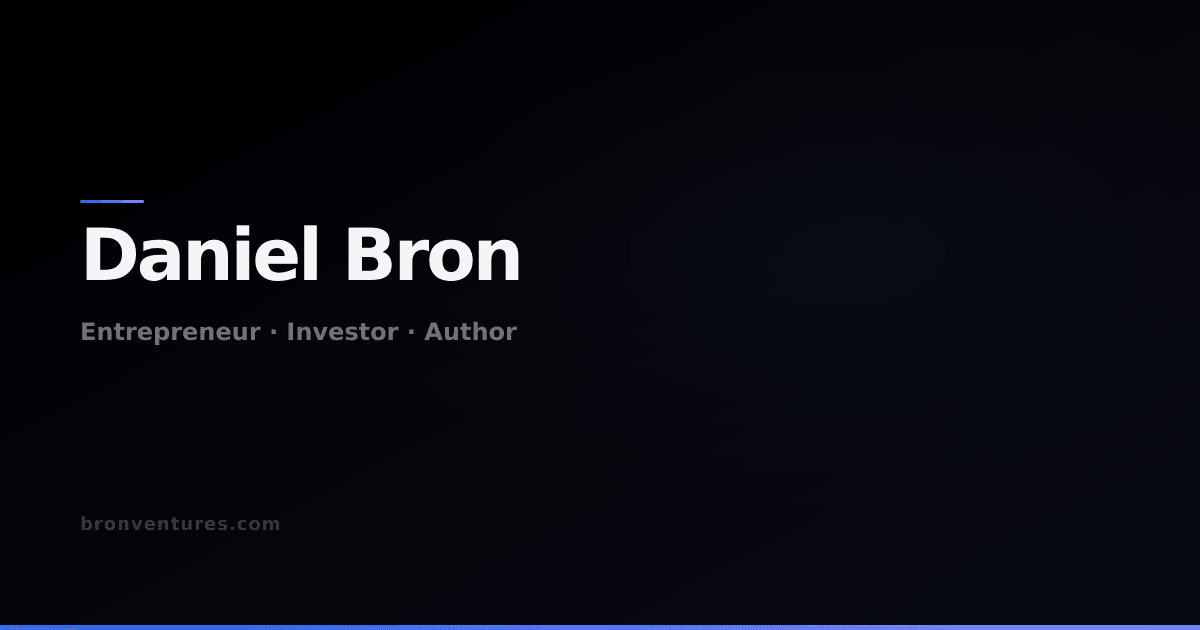
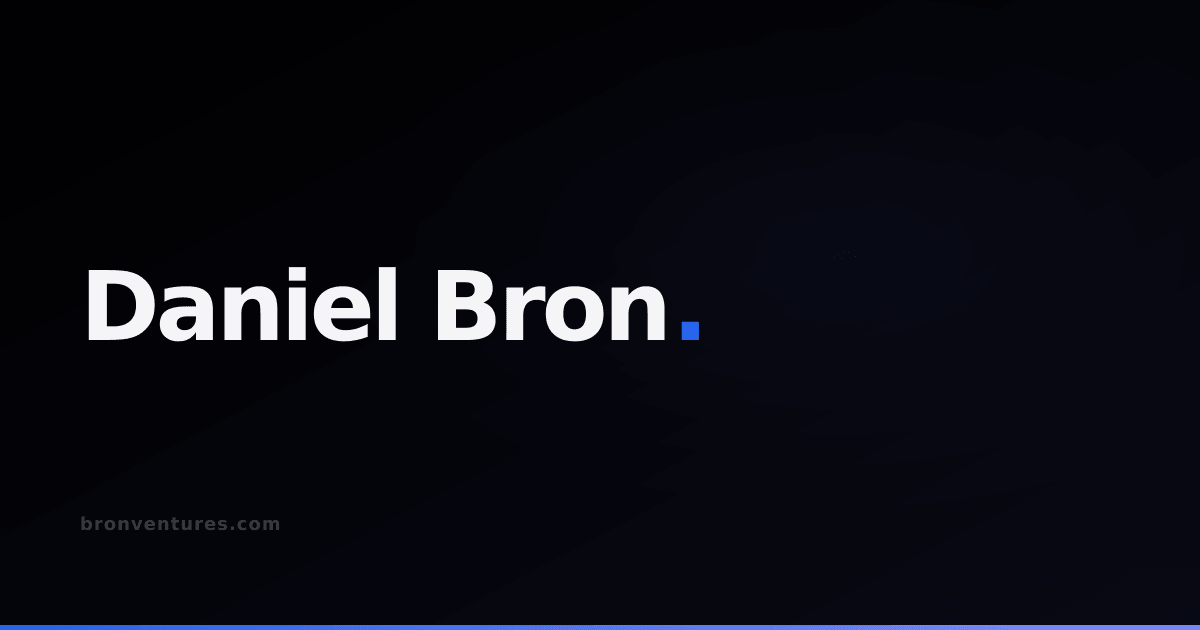
Bronventures: strip "entrepreneur / operator / investor" labels site-wide
Headline minimalism — Daniel doesn't want to wear the corny self-applied
labels.

- <title>: "Daniel Bron - Entrepreneur, Operator, Investor" -> "Daniel Bron"
- og:title / twitter:title / og:image:alt: same simplification
- meta description, og:description, twitter:description: rewritten
  around the bio's "gap between AI demo and regulated production"
  positioning. No more role-stack noise.
- Person JSON-LD: drop jobTitle array and hasOccupation array entirely;
  description rewritten. worksFor + founder still convey role through
  relationships (which is what Knowledge Graph actually weights).
- WebSite JSON-LD: description rewritten.
- Hero data row "Role: Entrepreneur, Operator, Investor": removed.
- Bio H2: dropped opening "Entrepreneur, operator, investor." line —
  now just "Building since 12. Shipping since always."
- og-image.svg: removed "Entrepreneur · Investor · Author" tagline,
  bumped name to 96px with the brand period in blue. PNG re-rendered.

Award name "Young Entrepreneurs Award" preserved in JSON-LD `award`
and cred-badges (it's a proper noun for a real award).

diff --git a/prod/index.html b/prod/index.html
@@ -7,26 +7,26 @@
 <script>window.dataLayer=window.dataLayer||[];function gtag(){dataLayer.push(arguments);}gtag('js',new Date());gtag('config','G-1X8EET0S1R');</script>
 <script>!function(f,b,e,v,n,t,s){if(f.fbq)return;n=f.fbq=function(){n.callMethod?n.callMethod.apply(n,arguments):n.queue.push(arguments)};if(!f._fbq)f._fbq=n;n.push=n;n.loaded=!0;n.version='2.0';n.queue=[];t=b.createElement(e);t.async=!0;t.src=v;s=b.getElementsByTagName(e)[0];s.parentNode.insertBefore(t,s)}(window,document,'script','https://connect.facebook.net/en_US/fbevents.js');fbq('init','3763590770319759');fbq('track','PageView');</script>
 <noscript><img height="1" width="1" style="display:none" src="https://www.facebook.com/tr?id=3763590770319759&ev=PageView&noscript=1"/></noscript>
-<title>Daniel Bron - Entrepreneur, Operator, Investor</title>
-<meta name="description" content="Daniel Bron is an American entrepreneur, operator, and investor. Founder of Fulcrum and Superposition Capital. Building at the intersection of technology, strategy, and execution.">
+<title>Daniel Bron</title>
+<meta name="description" content="Founder of Fulcrum. Partner at Superposition Capital. I work in the gap where AI stops being a demo and starts being something a regulated institution can actually run on.">
 <meta name="author" content="Daniel Bron">
 <meta name="theme-color" content="#000000">
 <link rel="icon" type="image/svg+xml" href="/favicon.svg">
 <link rel="icon" type="image/png" sizes="32x32" href="/favicon-32.png">
 <link rel="apple-touch-icon" sizes="180x180" href="/apple-touch-icon.png">
 <link rel="canonical" href="https://bronventures.com">
-<meta property="og:title" content="Daniel Bron - Entrepreneur, Operator, Investor">
-<meta property="og:description" content="Entrepreneur, operator, researcher, and investor. Founder of Fulcrum and Superposition Capital.">
+<meta property="og:title" content="Daniel Bron">
+<meta property="og:description" content="Founder of Fulcrum. Partner at Superposition Capital. AI for regulated industries.">
 <meta property="og:url" content="https://bronventures.com">
 <meta property="og:type" content="profile">
 <meta name="twitter:card" content="summary_large_image">
-<meta name="twitter:title" content="Daniel Bron - Entrepreneur, Operator, Investor">
-<meta name="twitter:description" content="Building since 12. Founder of Superposition Capital and Fulcrum. Miami, FL.">
+<meta name="twitter:title" content="Daniel Bron">
+<meta name="twitter:description" content="Founder of Fulcrum. Partner at Superposition Capital. AI for regulated industries.">
 <meta property="og:image" content="https://bronventures.com/og-image.png">
 <meta property="og:image:type" content="image/png">
 <meta property="og:image:width" content="1200">
 <meta property="og:image:height" content="630">
-<meta property="og:image:alt" content="Daniel Bron - Entrepreneur, Operator, Investor">
+<meta property="og:image:alt" content="Daniel Bron">
 <meta name="twitter:image" content="https://bronventures.com/og-image.png">
 <meta property="og:locale" content="en_US">
 <meta property="og:site_name" content="Daniel Bron">
@@ -40,10 +40,10 @@
 <link rel="preload" href="https://fonts.googleapis.com/css2?family=Inter:wght@400;500;600;700;800;900&display=swap" as="style" onload="this.onload=null;this.rel='stylesheet'">
 <noscript><link href="https://fonts.googleapis.com/css2?family=Inter:wght@400;500;600;700;800;900&display=swap" rel="stylesheet"></noscript>
 <script type="application/ld+json">
-{"@context":"https://schema.org","@type":"Person","@id":"https://bronventures.com/#person","name":"Daniel Bron","alternateName":["Dan Bron","Daniel J. Bron"],"givenName":"Daniel","familyName":"Bron","jobTitle":["Entrepreneur","Operator","Investor"],"description":"Daniel Bron is an American entrepreneur, operator, and investor focused on turning complex technologies into real businesses, systems, and strategic outcomes. Founder of Superposition Capital and Fulcrum.","url":"https://bronventures.com","image":"https://bronventures.com/icon-512.png","sameAs":["https://linkedin.com/in/dbron","https://instagram.com/broninc","https://superpositioncap.com","https://askfulcrum.com","https://solidity.law","https://lavr-int.com","https://www.amazon.com/4th-Industrial-Revolution-Innovations-Decentralized-ebook/dp/B0C7SLFDY7","https://builtin.com/artificial-intelligence/neuromorphic-computing","https://www.amazon.com/author/bron"],"alumniOf":[{"@type":"EducationalOrganization","name":"University of Miami","url":"https://www.miami.edu"}],"award":["Peter Thiel Fellow Finalist","Recognized by President Julio Frenk in State of the U Speech","Young Entrepreneurs Award"],"worksFor":[{"@type":"Organization","name":"Superposition Capital","url":"https://superpositioncap.com","description":"Seed fund investing in AI for regulated industries"},{"@type":"Organization","name":"Fulcrum","url":"https://askfulcrum.com","description":"AI operations advisory"}],"founder":[{"@type":"Organization","name":"Superposition Capital","url":"https://superpositioncap.com"},{"@type":"Organization","name":"Fulcrum","url":"https://askfulcrum.com"},{"@type":"Organization","name":"Solidity Law","url":"https://solidity.law"},{"@type":"Organization","name":"Lavr International","url":"https://lavr-int.com"},{"@type":"Organization","name":"Bron Law"}],"knowsAbout":["Artificial Intelligence","Venture Capital","Legal Technology","Blockchain","Financial Technology","Operations Automation","Regulated Industries","Seed Investing"],"knowsLanguage":["en","ru"],"nationality":{"@type":"Country","name":"United States"},"address":{"@type":"PostalAddress","addressLocality":"Miami","addressRegion":"FL","addressCountry":"US"},"hasOccupation":[{"@type":"Occupation","name":"Entrepreneur","occupationLocation":{"@type":"Country","name":"United States"}},{"@type":"Occupation","name":"Investor","occupationLocation":{"@type":"Country","name":"United States"}}],"author":{"@type":"Book","name":"The 4th Industrial Revolution","url":"https://www.amazon.com/4th-Industrial-Revolution-Innovations-Decentralized-ebook/dp/B0C7SLFDY7"}}
+{"@context":"https://schema.org","@type":"Person","@id":"https://bronventures.com/#person","name":"Daniel Bron","alternateName":["Dan Bron","Daniel J. Bron"],"givenName":"Daniel","familyName":"Bron","description":"Founder of Fulcrum, Partner at Superposition Capital. Working in the gap where AI stops being a demo and starts being something a regulated institution can actually run on.","url":"https://bronventures.com","image":"https://bronventures.com/icon-512.png","sameAs":["https://linkedin.com/in/dbron","https://instagram.com/broninc","https://superpositioncap.com","https://askfulcrum.com","https://solidity.law","https://lavr-int.com","https://www.amazon.com/4th-Industrial-Revolution-Innovations-Decentralized-ebook/dp/B0C7SLFDY7","https://builtin.com/artificial-intelligence/neuromorphic-computing","https://www.amazon.com/author/bron"],"alumniOf":[{"@type":"EducationalOrganization","name":"University of Miami","url":"https://www.miami.edu"}],"award":["Peter Thiel Fellow Finalist","Recognized by President Julio Frenk in State of the U Speech","Young Entrepreneurs Award"],"worksFor":[{"@type":"Organization","name":"Superposition Capital","url":"https://superpositioncap.com","description":"Seed fund investing in AI for regulated industries"},{"@type":"Organization","name":"Fulcrum","url":"https://askfulcrum.com","description":"AI operations advisory"}],"founder":[{"@type":"Organization","name":"Superposition Capital","url":"https://superpositioncap.com"},{"@type":"Organization","name":"Fulcrum","url":"https://askfulcrum.com"},{"@type":"Organization","name":"Solidity Law","url":"https://solidity.law"},{"@type":"Organization","name":"Lavr International","url":"https://lavr-int.com"},{"@type":"Organization","name":"Bron Law"}],"knowsAbout":["Artificial Intelligence","Venture Capital","Legal Technology","Blockchain","Financial Technology","Operations Automation","Regulated Industries","Seed Investing"],"knowsLanguage":["en","ru"],"nationality":{"@type":"Country","name":"United States"},"address":{"@type":"PostalAddress","addressLocality":"Miami","addressRegion":"FL","addressCountry":"US"},"author":{"@type":"Book","name":"The 4th Industrial Revolution","url":"https://www.amazon.com/4th-Industrial-Revolution-Innovations-Decentralized-ebook/dp/B0C7SLFDY7"}}
 </script>
 <script type="application/ld+json">
-{"@context":"https://schema.org","@type":"WebSite","name":"Daniel Bron","url":"https://bronventures.com","description":"Personal website of Daniel Bron - entrepreneur, operator, and investor based in Miami, FL.","author":{"@id":"https://bronventures.com/#person"}}
+{"@context":"https://schema.org","@type":"WebSite","name":"Daniel Bron","url":"https://bronventures.com","description":"Personal website of Daniel Bron — founder of Fulcrum and partner at Superposition Capital. Based in Miami, FL.","author":{"@id":"https://bronventures.com/#person"}}
 </script>
 <script type="application/ld+json">
 {"@context":"https://schema.org","@type":"Book","@id":"https://bronventures.com/#book-4ir","name":"The 4th Industrial Revolution","headline":"The 4th Industrial Revolution","alternateName":"4IR: Innovations in Decentralized Systems","author":{"@id":"https://bronventures.com/#person"},"datePublished":"2022","inLanguage":"en","about":["Artificial Intelligence","Blockchain","Fintech","Decentralized Systems"],"url":"https://www.amazon.com/4th-Industrial-Revolution-Innovations-Decentralized-ebook/dp/B0C7SLFDY7","image":"https://bronventures.com/uploads/81HCBIyrJVL._SL1500_.jpg","workExample":{"@type":"Book","@id":"https://bronventures.com/#book-4ir-kindle","bookFormat":"https://schema.org/EBook","isbn":"","potentialAction":{"@type":"ReadAction","target":"https://www.amazon.com/4th-Industrial-Revolution-Innovations-Decentralized-ebook/dp/B0C7SLFDY7"}}}
@@ -368,7 +368,6 @@ footer p{font-size:11px;color:#2a2a30;-webkit-text-fill-color:#2a2a30;letter-spa
 <div class="hero-inner">
 <h1 class="hero-name">Daniel<br>Bron<span class="dot">.</span></h1>
 <div class="hero-data">
-<div class="hd-row"><span class="hd-label">Role</span><span class="hd-value">Entrepreneur, Operator, Investor</span></div>
 <div class="hd-row"><span class="hd-label">Based</span><span class="hd-value">Miami, FL</span></div>
 <div class="hd-row"><span class="hd-label">Current</span><span class="hd-value"><a href="https://superpositioncap.com" target="_blank">Superposition</a>, <a href="https://askfulcrum.com" target="_blank">Fulcrum</a></span></div>
 <div class="hd-row"><span class="hd-label">Focus</span><span class="hd-value">AI, Regulated Industries, Legal Tech</span></div>
@@ -510,7 +509,7 @@ footer p{font-size:11px;color:#2a2a30;-webkit-text-fill-color:#2a2a30;letter-spa
 <section class="bio" id="about">
 <div class="w">
 <div class="bio-hero rv">
-<h2>Entrepreneur, operator, investor<span class="muted">.</span><br>Building since 12<span class="muted">.</span> Shipping since always<span class="muted">.</span></h2>
+<h2>Building since 12<span class="muted">.</span> Shipping since always<span class="muted">.</span></h2>
 </div>
 <div class="bio-grid">
 <div class="bio-text rv">
